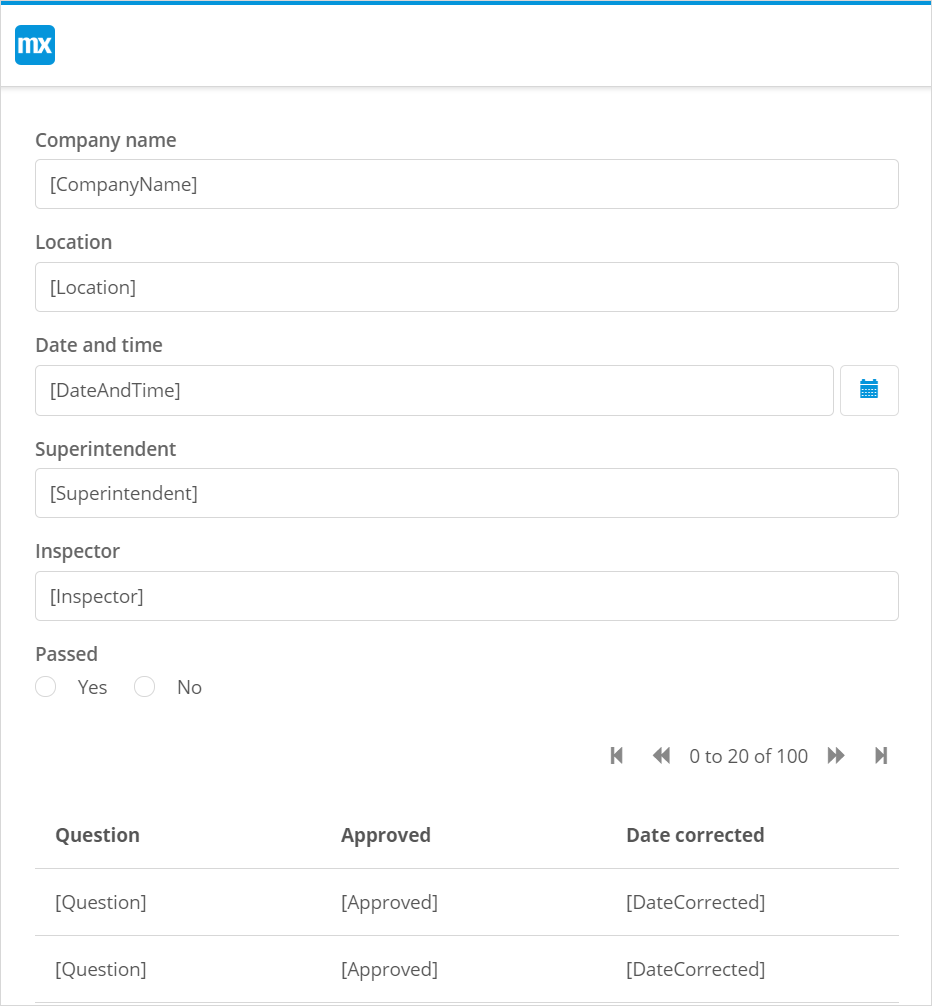
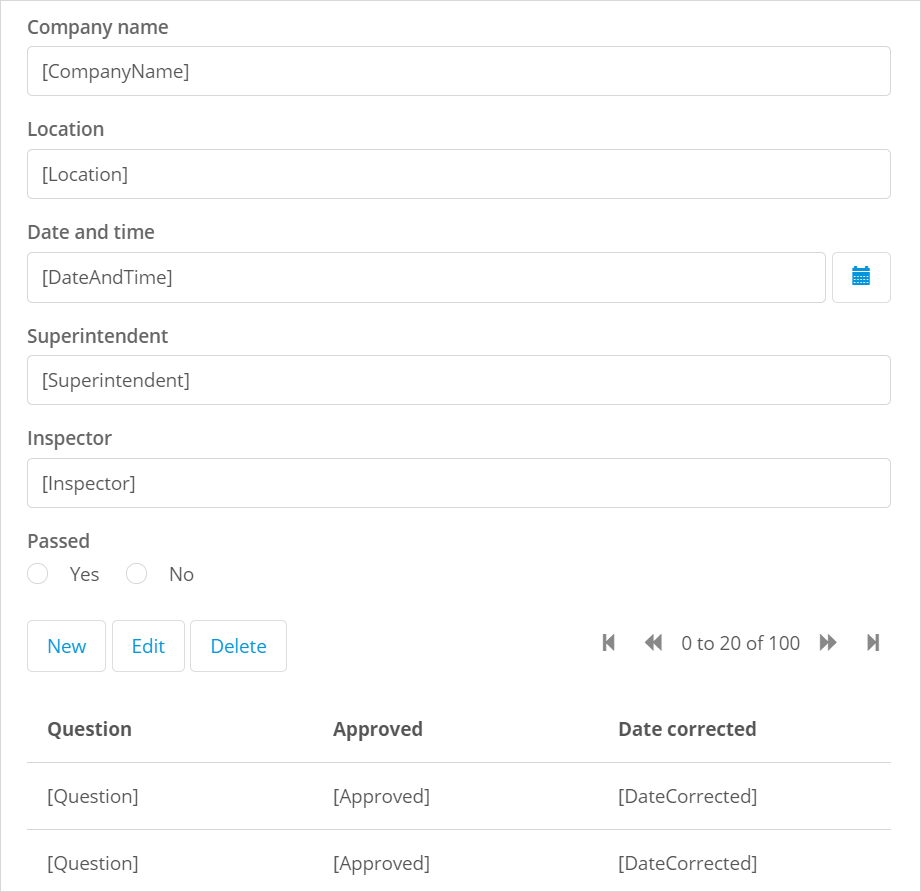
Implement the rest of the review

diff --git a/content/studio-how-to/pages-how-to-configure-form.md b/content/studio-how-to/pages-how-to-configure-form.md
@@ -128,16 +128,25 @@ Follow the steps below:
 
 10. In the **Select Page** dialog box, click **New Page**.
 
-11. In the **Create new page** dialog box, fill in the page title and set the **Layout** to **PopupLayout**. 
+11. In the **Create new page** dialog box, set the page title to **Checklist_Details** and the **Layout** to **PopupLayout**. 
 
-12. The **Pre-fill page contents based on the Checklist entity** option is on, so the page template (Forms) is selected automatically for you. Choose **Forms Columns**:
+12. The **Pre-fill page contents based on the Checklist entity** option is on, so the page template (*Forms*) is selected automatically for you. Choose **Forms Columns**:
 
-     <img src="attachments/pages-how-to-configure-form/new-checklist.png" style="zoom:67%;" />
+     <img src="attachments/pages-how-to-configure-form/manage-checklist.png" style="zoom:60%;" />
 
 13. Click **Create**.
-14. A pop-up page where end-users can add new checklist items is created. Now you can select the same page as an on-click action 
 
-Now checklist items are displayed in the table.
+14. A pop-up page where end-users can add new checklist items is created. Now you can select the same page as an on-click action for the **Edit** button to edit the selected checklist. Click the **Edit** button in the data grid and open its properties.
+
+15. Set the **On Click Action** to **Page**.
+
+16. Set the **Page** property to **Manage_Checklist**.
+
+     <img src="attachments/pages-how-to-configure-form/edit-button-properties.png" style="zoom:67%;" />
+
+Now checklist items are displayed in the table. You can add new checklist by clicking the **New** button in the table, and edit the selected checklist by clicking the **Edit** button.
+
+<img src="attachments/pages-how-to-configure-form/data-grid-configured.png" style="zoom:67%;" />
 
 Congratulations! You have the page that displays details of the selected report and checklist items of this report:
 
